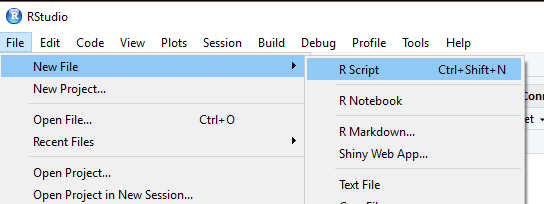
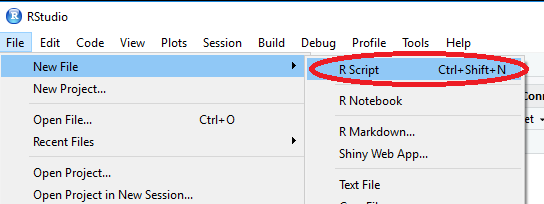
Updating the tutorial.

Changed region(s): [[0.5625, 0.2353, 0.9688, 0.4412]]

diff --git a/Output/Other/Getting code into R.md b/Output/Other/Getting code into R.md
@@ -1,0 +1,75 @@
+Getting from the raw code on Github to running things in RStudio
+=====================
+Although the formatted code pages (<a href="https://github.com/RFJHaans/topicmodeling/blob/master/Code/2017/Formatted%20code%202017.md">here</a> and <a href="https://github.com/RFJHaans/topicmodeling/blob/master/Code/2018/Formatted%20code%202018.md">here</a>) show the code step-by-step, in order to make changes to the code or to run it yourself, you need to load the raw code into RStudio. 
+
+This page shows a step-by-step overview of doing so.
+
+
+Step 1
+-------------------
+Starting from the homepage of the Github repository, we navigate to the "Code" folder. 
+
+![](https://raw.githubusercontent.com/RFJHaans/topicmodeling/master/Output/Other/1.png)
+
+
+Step 2
+-------------------
+There, we navigate to the folder for the 2018 Workshop (of course, to load up 2017's code, one would navigate to the respective folder). 
+
+![](https://raw.githubusercontent.com/RFJHaans/topicmodeling/master/Output/Other/2.PNG)
+
+
+Step 3
+-------------------
+While the frontpage links to the "Formatted code 2018.md" file, this file does not easily allow you to load code into R. Instead, we navigate to the "Raw" folder.  
+
+![](https://raw.githubusercontent.com/RFJHaans/topicmodeling/master/Output/Other/3.PNG)
+
+
+Step 4
+-------------------
+In the "Raw" folder, we click on the link to the .R file containing the full code.  
+
+![](https://raw.githubusercontent.com/RFJHaans/topicmodeling/master/Output/Other/4.PNG)
+
+
+Step 5
+-------------------
+Unfortunately, it's not possible to download the .R file very easily. Instead, we click on the "Raw" button. You can also try copying the code from this window if you prefer. 
+
+![](https://raw.githubusercontent.com/RFJHaans/topicmodeling/master/Output/Other/5.PNG)
+
+
+Step 6
+-------------------
+The code will look like this, and the page will only contain this plaintext version of the code. 
+
+![](https://raw.githubusercontent.com/RFJHaans/topicmodeling/master/Output/Other/6.PNG)
+
+
+Step 7
+-------------------
+We select all code on this page (in Windows, this is easiest with "Ctrl+A") and copy it. 
+
+![](https://raw.githubusercontent.com/RFJHaans/topicmodeling/master/Output/Other/7.PNG)
+
+
+Step 8
+-------------------
+Then, we boot up RStudio.
+
+![](https://raw.githubusercontent.com/RFJHaans/topicmodeling/master/Output/Other/8.PNG)
+
+
+Step 9
+-------------------
+And we create a new, empty script file (on Windows, pressing "Ctrl + Shift + N" also does the trick). 
+
+![](https://raw.githubusercontent.com/RFJHaans/topicmodeling/master/Output/Other/9.png)
+
+
+Step 10
+-------------------
+Finally, we paste the copied code into this new script file. You can edit and save things as you see fit. You can run sections of code by selecting the relevant lines and pressing "Run" or pressing "Ctrl + Enter" on Windows. 
+
+![](https://raw.githubusercontent.com/RFJHaans/topicmodeling/master/Output/Other/10.PNG)
